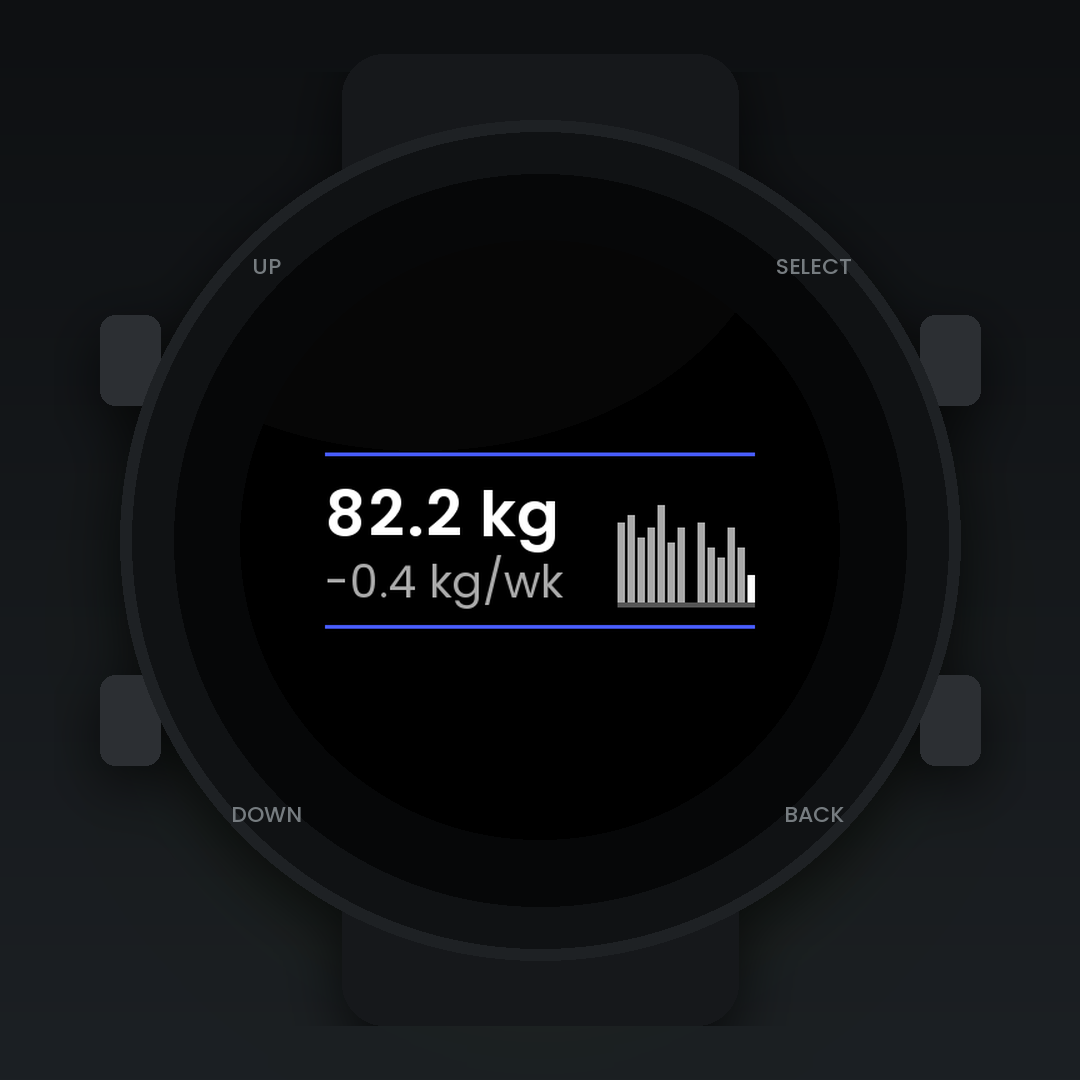
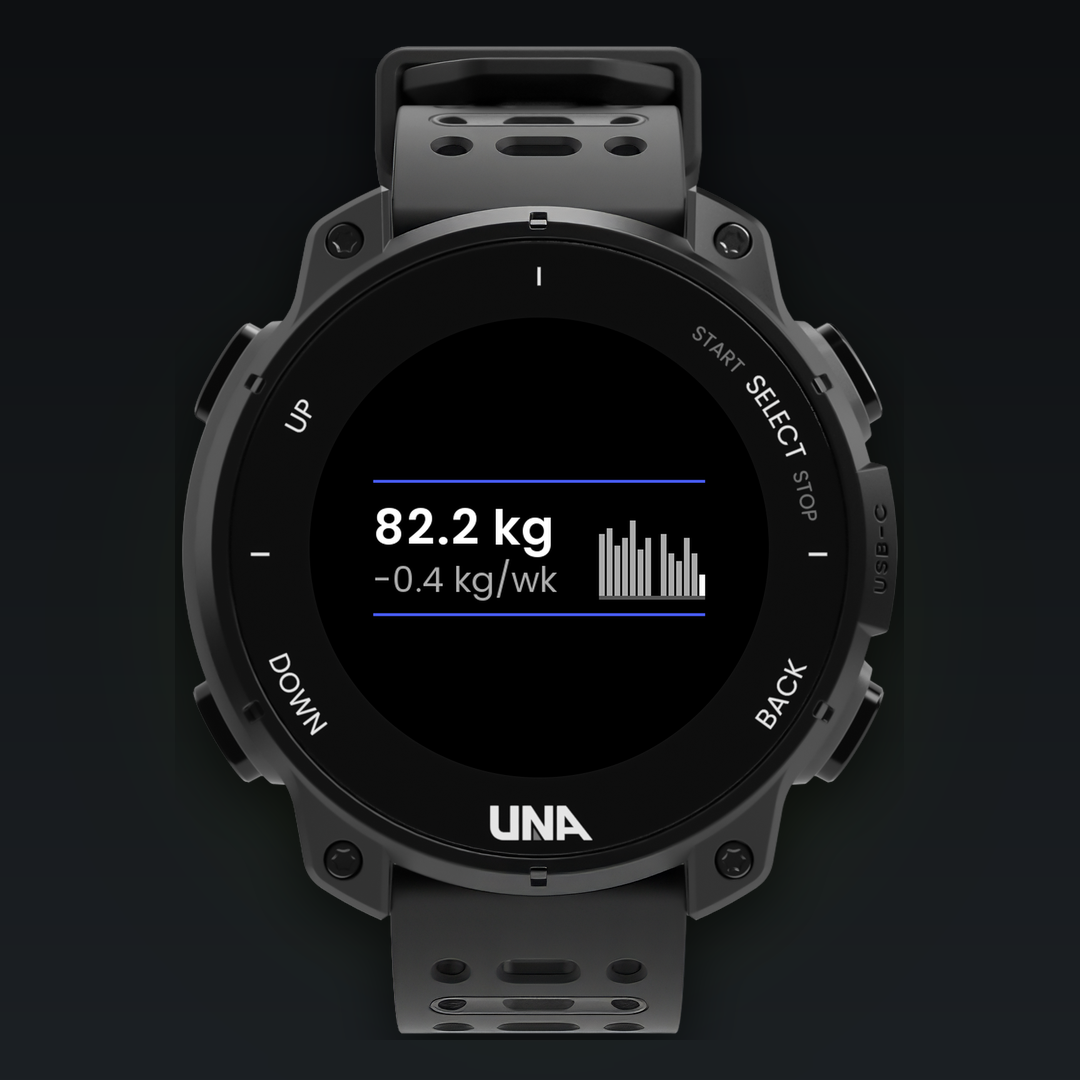
X Weigh-in: store images on UNA's own watch renders
store_images.py now uses the watch renders from the SDK's Figma UI Resource
Pack (Docs/Templates/Figma-UI-Kit, black, teal and white, read from
$UNA_SDK, not copied in), with the real screens set into the measured
734 px screen opening. Both sets regenerated.

Claude-Session: https://claude.ai/code/session_01GHUw2af96NXnjEQdZJGUor

diff --git a/x-weighin/docs/experiments/store_images.py b/x-weighin/docs/experiments/store_images.py
@@ -8,9 +8,8 @@ Everything on a watch screen is real, never redrawn by hand:
   - the glance is drawn from the real layout code's output
     (Tests/Host/tools/glance_preview), as glance_preview.py does, because the
     simulator cannot run glances.
-Only the watch body around the screen, the headlines and the backgrounds are
-drawn here. The watch is a plain round sports watch with four buttons, as
-labelled on Jon's watch (UP, DOWN, SELECT, BACK). It carries no maker's logo.
+The watch is UNA's own render from the SDK's Figma UI Resource Pack, read
+from $UNA_SDK. Only the backgrounds and the headlines are drawn here.
 
     UNA_SDK=... store_images.py <glance_preview binary> <out-dir>
 
@@ -20,10 +19,12 @@ writes:
     <out-dir>/app/marketing/   1080x1080 feature cards and a 1920x1080 banner
     <out-dir>/glance/...       the same three for the glance
 """
+import io
 import os
 import shutil
 import subprocess
 import sys
+import zipfile
 
 from PIL import Image, ImageDraw, ImageFilter, ImageFont
 
@@ -48,44 +49,44 @@ def font(weight, size):
 
 # -- The watch --------------------------------------------------------------
 
-def watch(screen, face=600):
-    """A round watch with the 240x240 @2x screen at @p face px, on a transparent
-    canvas sized to fit it."""
-    case_r = int(face * 0.70)
-    bezel_r = int(face * 0.61)
-    size = int(face * 1.62)
-    img = Image.new("RGBA", (size, size), (0, 0, 0, 0))
-    d = ImageDraw.Draw(img)
-    c = size // 2
-    # Strap stubs top and bottom, to the canvas edge.
-    sw = int(face * 0.33)
-    d.rounded_rectangle([c - sw, 0, c + sw, size - 1], int(face * 0.07), fill=(22, 24, 27))
-    # Four buttons, two a side.
-    bw, bh = int(face * 0.05), int(face * 0.15)
-    for sgn in (-1, 1):
-        for dy in (-0.30, 0.30):
-            x, y = c + sgn * (case_r - bw // 3), c + int(dy * face)
-            d.rounded_rectangle([x - bw, y - bh // 2, x + bw, y + bh // 2], bw // 2, fill=(44, 47, 51))
-    # Case, bezel ring, the black around the screen.
-    d.ellipse([c - case_r, c - case_r, c + case_r, c + case_r], fill=(30, 33, 36))
-    r2 = case_r - int(face * 0.02)
-    d.ellipse([c - r2, c - r2, c + r2, c + r2], fill=(16, 18, 20))
-    d.ellipse([c - bezel_r, c - bezel_r, c + bezel_r, c + bezel_r], fill=(6, 7, 8))
-    # Button labels on the bezel ring, as on the watch.
-    lab = font("Medium", max(12, int(face * 0.038)))
-    rl = (bezel_r + r2) / 2 / 2 ** 0.5
-    for text, sx, sy in (("UP", -1, -1), ("DOWN", -1, 1), ("SELECT", 1, -1), ("BACK", 1, 1)):
-        d.text((c + sx * rl, c + sy * rl), text, font=lab, fill=(118, 124, 128), anchor="mm")
-    # The screen, round.
-    scr = screen.convert("RGB").resize((face, face), Image.LANCZOS)
-    mask = Image.new("L", (face, face), 0)
-    ImageDraw.Draw(mask).ellipse([0, 0, face - 1, face - 1], fill=255)
-    img.paste(scr, (c - face // 2, c - face // 2), mask)
-    # A faint glass highlight.
-    glare = Image.new("RGBA", (face, face), (0, 0, 0, 0))
-    ImageDraw.Draw(glare).ellipse([-face * 0.3, -face * 0.55, face * 0.9, face * 0.35], fill=(255, 255, 255, 6))
-    img.alpha_composite(Image.composite(glare, Image.new("RGBA", (face, face)), mask), (c - face // 2, c - face // 2))
-    return img
+# UNA's own watch renders, from the SDK's Figma UI Resource Pack
+# (una-sdk Docs/Templates/Figma-UI-Kit/UNA-Watch-UI-Resource-Pack.fig, a zip;
+# Docs/figma-ui-kit.rst). Each is 2000x2000 with the screen left transparent:
+# a 734 px circle centred at (999.5, 1010.5), measured from the alpha channel.
+# Read from $UNA_SDK at run time, not copied into this repository.
+FIG = os.path.join(os.environ.get("UNA_SDK", ""), "Docs/Templates/Figma-UI-Kit/UNA-Watch-UI-Resource-Pack.fig")
+RENDERS = {"black": "images/7fcc1a77ec68190d68598271ef7001237214c36d",
+           "teal": "images/4ae4be5e2931ad615f699b142316f5a8f66563f5",
+           "white": "images/8a9fead257a6c70ffc99d9fe6f3c0ba3fc144d36"}
+HOLE_CX, HOLE_CY, HOLE_D = 999.5, 1010.5, 734
+CROP = (418, 201, 1583, 1797)   # the watch's own extent, plus a 10 px margin
+_renders = {}
+
+
+def render(colour):
+    if colour not in _renders:
+        if not os.path.isfile(FIG):
+            sys.exit("The SDK's Figma pack is not at %s: set UNA_SDK" % FIG)
+        with zipfile.ZipFile(FIG) as z, z.open(RENDERS[colour]) as f:
+            _renders[colour] = Image.open(io.BytesIO(f.read())).convert("RGBA")
+    return _renders[colour]
+
+
+def watch(screen, height=1000, colour="black"):
+    """UNA's watch render, @p height px tall, with the 240x240 @2x @p screen in
+    its screen opening."""
+    w = render(colour)
+    base = Image.new("RGBA", w.size, (0, 0, 0, 0))
+    # The screen slightly larger than the opening, so no gap shows at its edge.
+    d = HOLE_D + 6
+    scr = screen.convert("RGB").resize((d, d), Image.LANCZOS)
+    mask = Image.new("L", (d, d), 0)
+    ImageDraw.Draw(mask).ellipse([0, 0, d - 1, d - 1], fill=255)
+    base.paste(scr, (int(HOLE_CX - d / 2 + 0.5), int(HOLE_CY - d / 2 + 0.5)), mask)
+    base.alpha_composite(w)
+    base = base.crop(CROP)
+    scale = height / base.height
+    return base.resize((int(base.width * scale), height), Image.LANCZOS)
 
 
 def shadowed(img):
@@ -142,8 +143,9 @@ def card(screen, title, body, brand, path, w=1080, h=1080):
     for line in wrap(d, body, font("Regular", 34), w - 140):
         d.text((70, y), line, font=font("Regular", 34), fill=GREY)
         y += 46
-    wt = shadowed(watch(screen, face=410))
-    img.alpha_composite(wt, ((w - wt.width) // 2, max(y + 10, h - wt.height + 10)))
+    top = y + 20
+    wt = shadowed(watch(screen, height=h - top - 20))
+    img.alpha_composite(wt, ((w - wt.width) // 2, top))
     img.convert("RGB").save(path)
     print("wrote", os.path.relpath(path, REPO))
 
@@ -161,10 +163,10 @@ def banner(screens, title, sub, brand, path, w=1920, h=1080):
     for line in wrap(d, sub, font("Regular", 40), 700):
         d.text((110, y), line, font=font("Regular", 40), fill=GREY)
         y += 54
-    # (face, centre x, centre y): the first screen in front, the others behind.
-    spots = [(310, 1420, 540), (220, 1080, 570), (220, 1740, 570)]
-    for scr, (face, x, yy) in reversed(list(zip(screens, spots))):
-        wt = shadowed(watch(scr, face=face))
+    # (height, centre x, centre y, colour): the first in front, the others behind.
+    spots = [(880, 1390, 545, "black"), (600, 1060, 560, "teal"), (600, 1690, 560, "white")]
+    for scr, (ht, x, yy, col) in reversed(list(zip(screens, spots))):
+        wt = shadowed(watch(scr, height=ht, colour=col))
         img.alpha_composite(wt, (x - wt.width // 2, yy - wt.height // 2))
     img.convert("RGB").save(path)
     print("wrote", os.path.relpath(path, REPO))
@@ -237,7 +239,7 @@ def main():
         shutil.copy(src, os.path.join(app, "previews", n + ".png"))
         shots[n] = Image.open(src)
         m = background(1080, 1080)
-        wt = shadowed(watch(shots[n], face=600))
+        wt = shadowed(watch(shots[n], height=1000))
         m.alpha_composite(wt, ((1080 - wt.width) // 2, (1080 - wt.height) // 2))
         m.convert("RGB").save(os.path.join(app, "mockups", n + ".png"))
         print("wrote", os.path.relpath(os.path.join(app, "mockups", n + ".png"), REPO))
@@ -270,7 +272,7 @@ def main():
             ("3-first-days", "The first three days")]
     for fname, pname in pick:
         m = background(1080, 1080)
-        wt = shadowed(watch(screens[pname], face=600))
+        wt = shadowed(watch(screens[pname], height=1000))
         m.alpha_composite(wt, ((1080 - wt.width) // 2, (1080 - wt.height) // 2))
         m.convert("RGB").save(os.path.join(gl, "mockups", fname + ".png"))
         print("wrote", os.path.relpath(os.path.join(gl, "mockups", fname + ".png"), REPO))

diff --git a/x-weighin/docs/store/README.md b/x-weighin/docs/store/README.md
@@ -22,10 +22,17 @@ UNA_SDK=... python3 x-weighin/docs/experiments/store_images.py x-weighin/build-t
 - **The glance** is drawn from the real layout code's output, because the
   simulator cannot run glances. It sits between the glances list's separator
   lines, as on the watch (NOTES, Gate W3).
-- **Drawn here:** only the watch body, the backgrounds and the headlines.
-  - The watch is a plain round sports watch with the four button labels, and
-    no maker's logo.
-  - The headlines make only the claims in `SUBMISSION.md`'s checked store text.
+- **The watch** is UNA's own render, from the SDK's Figma UI Resource Pack
+  (`una-sdk/Docs/Templates/Figma-UI-Kit/UNA-Watch-UI-Resource-Pack.fig`; see
+  `Docs/figma-ui-kit.rst`).
+  - It comes in black, teal and white, each 2000×2000 with the screen
+    transparent. The opening is a 734 px circle at (999.5, 1010.5), measured
+    from the alpha channel.
+  - The script reads the renders from `$UNA_SDK` when it runs; none is copied
+    into this repository.
+  - The mock-ups and cards use black; the banners add teal and white behind.
+- **Drawn here:** only the backgrounds and the headlines. The headlines make
+  only the claims in `SUBMISSION.md`'s checked store text.
 
 **Sizes:** UNA's portal and SDK give no image sizes. The previews match the ones
 in the packages. The others are common square and 16:9 sizes; resize if the

diff --git a/x-weighin/docs/NOTES.md b/x-weighin/docs/NOTES.md
@@ -982,9 +982,13 @@ listing. `docs/experiments/store_images.py` makes them, and
 **What is real:**
 - The screens are real: simulator captures for the app, and the real layout
   code's output for the glance.
-- Only the watch body, the backgrounds and the headlines are drawn.
-- The headlines claim no more than SUBMISSION.md's checked store text.
-- The watch has no maker's logo.
+- The watch is UNA's own render, from the SDK's Figma UI Resource Pack
+  (`Docs/Templates/Figma-UI-Kit/`, a zip of 2000×2000 renders with the screen
+  transparent). Jon pointed to it.
+  - The first version drew a generic watch.
+  - The renders are read from `$UNA_SDK`, not copied in.
+- Only the backgrounds and the headlines are drawn, and the headlines claim no
+  more than SUBMISSION.md's checked store text.
 
 The portal gives no image sizes, so these are common ones.
 
